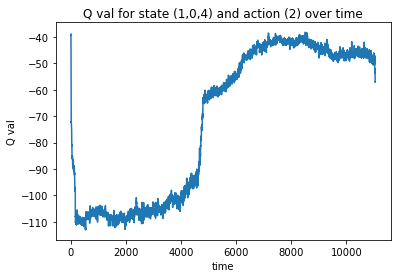
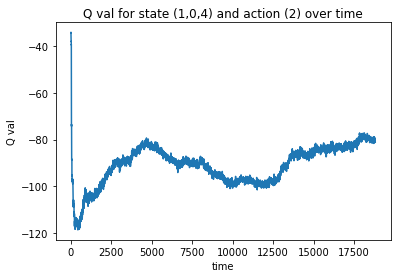
jn

diff --git a/Readme.md b/Readme.md
@@ -26,8 +26,7 @@ for example (from ddpg_debug_csv_example.ipynb):
 ```python
 import pandas as pd
 import matplotlib.pyplot as plt
-from ast import literal_eval
-df = pd.read_csv('train/logs/ddpg_data.csv',index_col=0)
+df = pd.read_pickle('train/logs/ddpg_data.pkl')
 df.head()
 ```
 
@@ -61,36 +60,36 @@ df.head()
   <tbody>
     <tr>
       <th>0</th>
-      <td>[-1. -1. -8.]</td>
-      <td>[-2.]</td>
+      <td>[-1.0, -1.0, -8.0]</td>
+      <td>[-2.0]</td>
       <td>0</td>
       <td>[]</td>
     </tr>
     <tr>
       <th>1</th>
-      <td>[-1. -1. -8.]</td>
-      <td>[-1.]</td>
+      <td>[-1.0, -1.0, -8.0]</td>
+      <td>[-1.0]</td>
       <td>0</td>
       <td>[]</td>
     </tr>
     <tr>
       <th>2</th>
-      <td>[-1. -1. -8.]</td>
-      <td>[0.]</td>
+      <td>[-1.0, -1.0, -8.0]</td>
+      <td>[0.0]</td>
       <td>0</td>
       <td>[]</td>
     </tr>
     <tr>
       <th>3</th>
-      <td>[-1. -1. -8.]</td>
-      <td>[1.]</td>
+      <td>[-1.0, -1.0, -8.0]</td>
+      <td>[1.0]</td>
       <td>0</td>
       <td>[]</td>
     </tr>
     <tr>
       <th>4</th>
-      <td>[-1. -1. -8.]</td>
-      <td>[2.]</td>
+      <td>[-1.0, -1.0, -8.0]</td>
+      <td>[2.0]</td>
       <td>0</td>
       <td>[]</td>
     </tr>
@@ -164,10 +163,10 @@ most_c
   <tbody>
     <tr>
       <th>569</th>
-      <td>[1. 0. 4.]</td>
-      <td>[2.]</td>
-      <td>11048</td>
-      <td>[-39.084824, -39.03244, -38.879787, -43.919815...</td>
+      <td>[1.0, 0.0, 4.0]</td>
+      <td>[2.0]</td>
+      <td>18801</td>
+      <td>[-34.07399, -33.94677, -33.910908, -34.01233, ...</td>
     </tr>
   </tbody>
 </table>
@@ -177,8 +176,8 @@ most_c
 
 
 ```python
-y = literal_eval(most_c.Q.iloc[0])
-x = range(len(x))
+y = most_c.Q.iloc[0]
+x = range(len(y))
 plt.xlabel('time')
 plt.ylabel('Q val')
 plt.title('Q val for state (1,0,4) and action (2) over time')
@@ -188,13 +187,10 @@ plt.plot(x,y)
 
 
 
-    [<matplotlib.lines.Line2D at 0x1bb94bca4e0>]
+    [<matplotlib.lines.Line2D at 0x27158085860>]
 
 
 
 
 ![png](output_7_1.png)
 
-
-
- 
